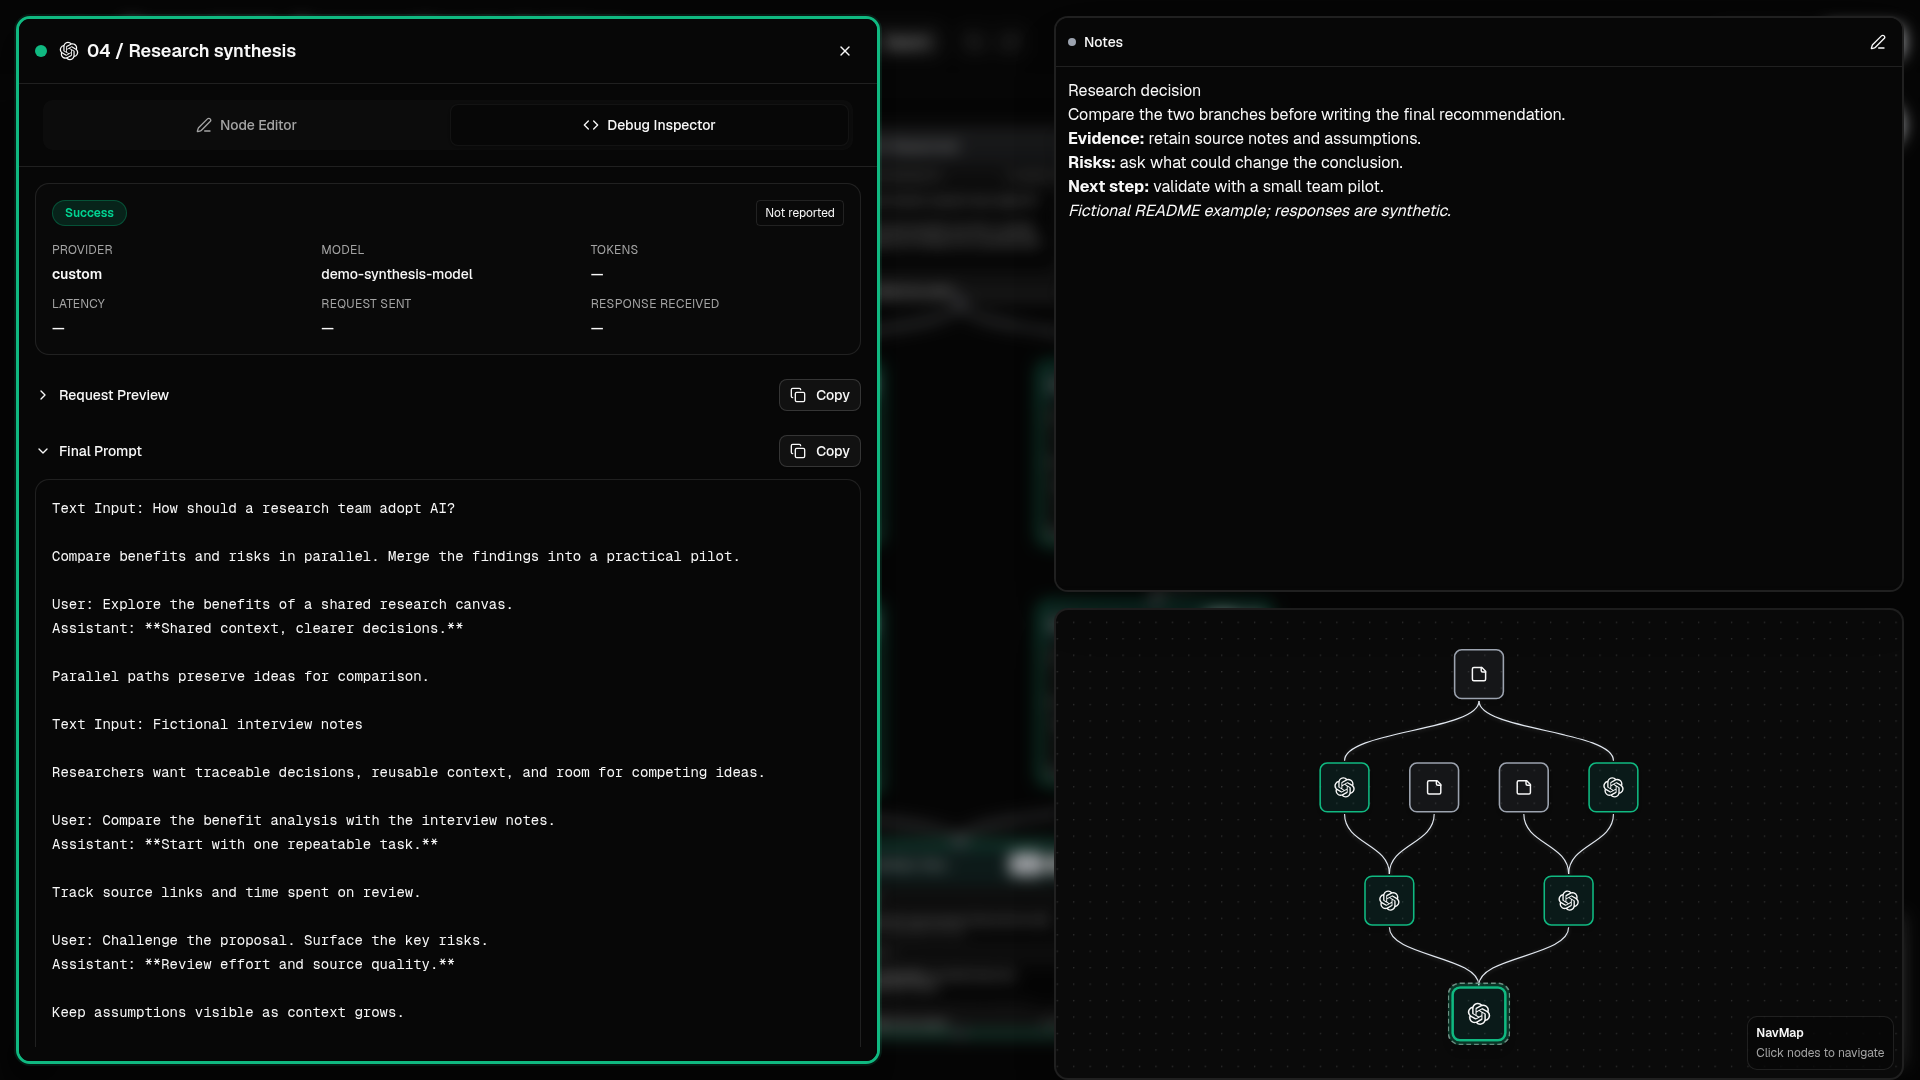
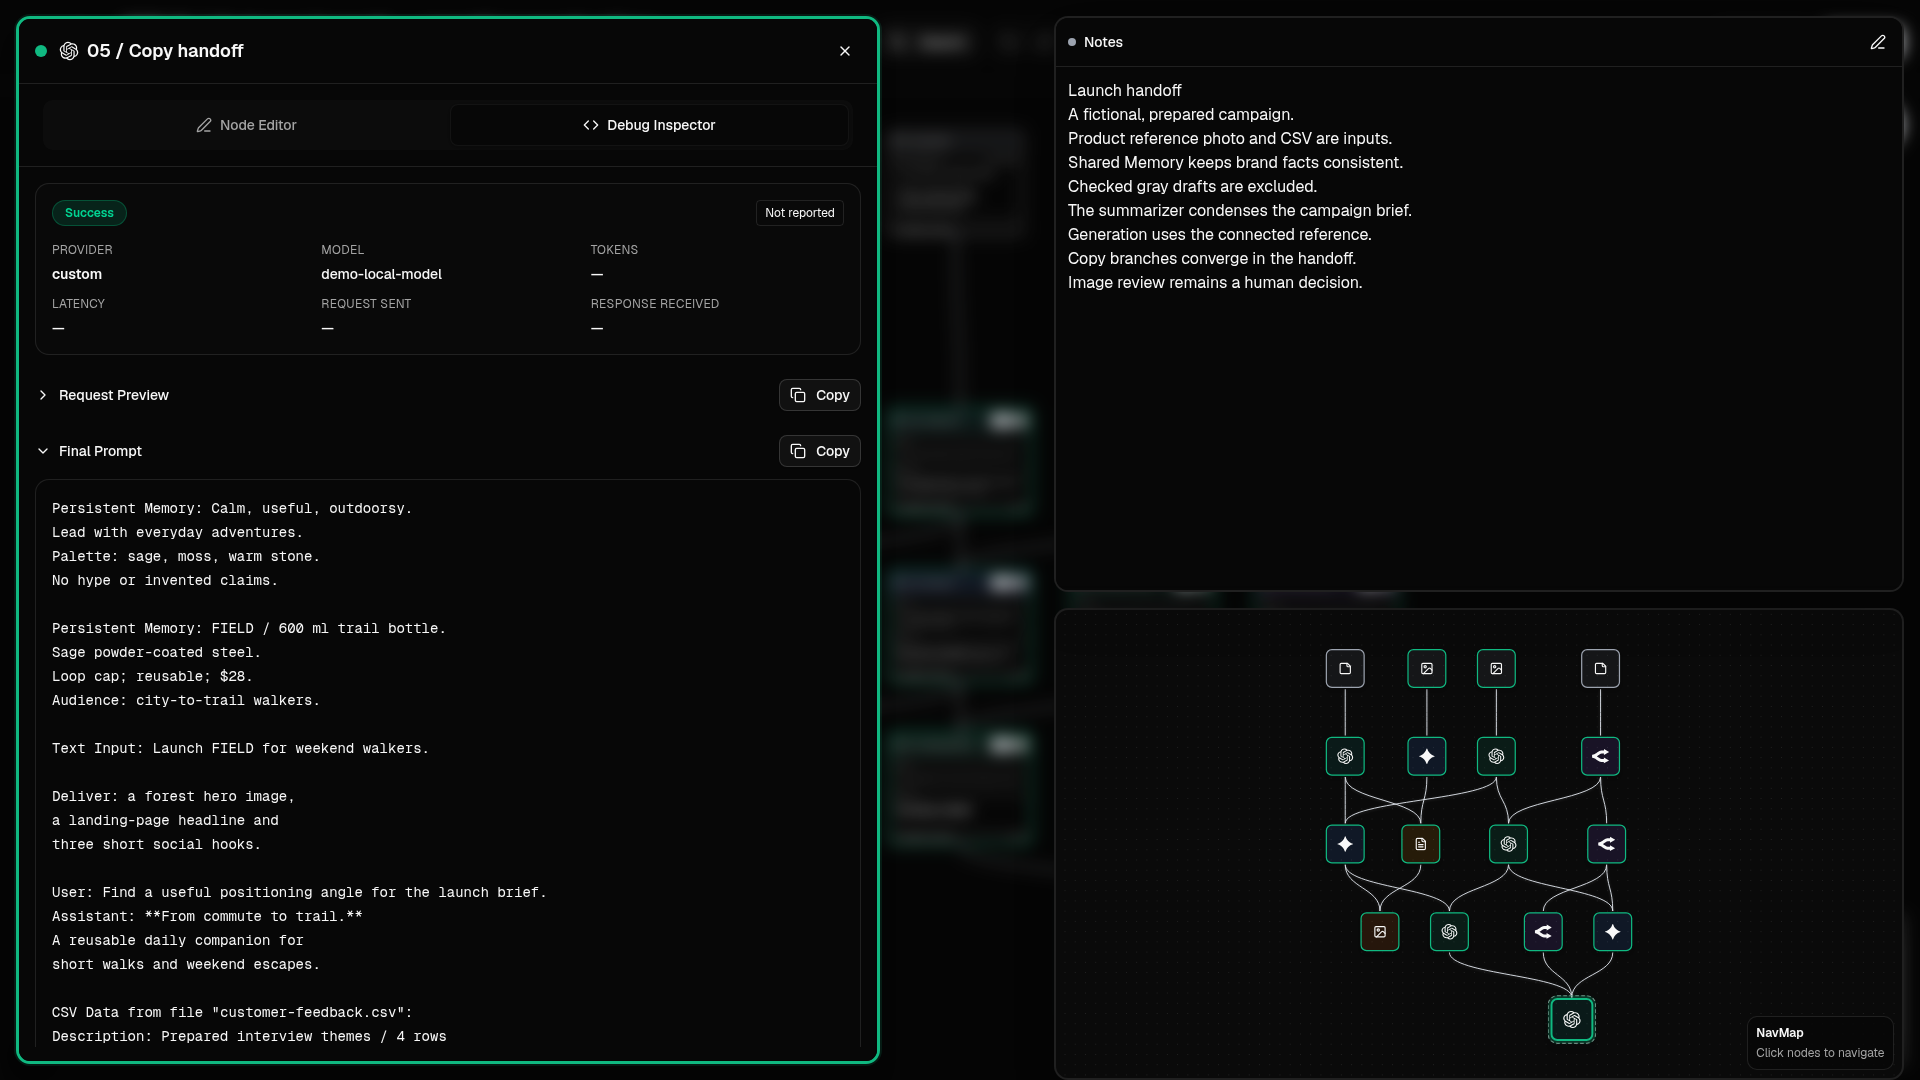
docs: showcase a complete multimodal production pipeline [skip ci]

diff --git a/docs/SCREENSHOTS.md b/docs/SCREENSHOTS.md
@@ -1,18 +1,31 @@
 # LLM Canvas screenshots
 
-These screenshots show the actual application with a synthetic demonstration account and graph. The prompts and saved example replies were prepared for documentation; they are not live model benchmarks. No personal canvases, real provider keys or private uploads are included.
+These screenshots show the actual application with a fresh demonstration account and a fictional project. Prompts, CSV feedback and saved replies were prepared for documentation. The two product photographs were created with the built-in image-generation tool and placed in the example graph; no application provider was called to stage the captures. These are examples, not live model benchmarks. No personal canvases, real provider keys or private uploads are included.
 
-## Branch and combine
+## A complete creative project
 
-![A dark nine-node canvas with two review branches, source notes and a connected conclusion](images/canvas-demo.png)
+![The FIELD campaign project: 21 nodes with a reference photo, generated hero, CSV feedback, shared memories, parallel reviews and excluded drafts](images/canvas-demo.png)
 
-Nine nodes form a top-to-bottom workflow: explore two perspectives, add source context, review each branch, then merge the findings. Each connection leaves the source at its bottom handle and enters the next node at its top handle. Arrows select context; use Run Selected to execute selected dependencies in order.
+**FIELD / Autumn launch** develops a campaign for a fictional trail bottle. Open the image at full size to inspect the 21 nodes and 21 connections.
+
+| Stage | What the graph shows |
+| --- | --- |
+| Source material | A product reference photo, launch brief and customer-feedback CSV. |
+| Shared Memory | Two persistent Memory nodes keep brand voice and verified product facts available across the canvas, without edges. |
+| Parallel analysis | Gemini, OpenAI, OpenRouter and a custom local endpoint explore the photo, audience, feedback and supported claims. |
+| Creative direction | A Summarizer composes the campaign brief; other branches develop art direction, message strategy and fact-checks. |
+| Production | An image-editing node preserves the bottle in a new forest scene. Parallel copy branches create landing-page and social text. |
+| Review and handoff | Copy branches converge in a handoff node; a Notes card keeps the human approval checklist outside model context. |
+
+Two checked, faded drafts demonstrate **Hidden from context**. The unsupported claim has a dashed connection to the claims-review node, but its text does not enter the request. The separate rejected-style draft is also excluded.
+
+Each connection uses the source's bottom handle and the target's top handle; downstream nodes sit below their sources. Layout checks verify no overlapping cards, crossings or clipped nodes. Arrows select context; use **Run Selected** to execute selected dependencies in order. A summary contributes its saved output alongside its connected raw ancestors; it does not silently replace them.
 
 ## Inspect context
 
 ![The node inspector showing connected demonstration context and a saved result](images/context-inspector.png)
 
-Review connected context and the saved result in the node inspector. Token estimates and provider-reported usage have different meanings; see [tokens and caching](TOKENS_AND_CACHING.md).
+The copy-handoff inspector shows both persistent memories and its assembled branch context, with the project notes and navigation map beside it. Image production and copy handoff remain parallel outputs for human approval. Prepared replies have no provider-reported billing or timing; the inspector displays **Not reported**. Token estimates and provider-reported usage have different meanings; see [tokens and caching](TOKENS_AND_CACHING.md).
 
 ## Connect your own endpoint
 

diff --git a/docs/RELEASE-VERIFICATION.md b/docs/RELEASE-VERIFICATION.md
@@ -45,7 +45,9 @@ Previews remain unsigned. Signing, reputation, downloaded-file quarantine and no
 
 The canonical server favicon is byte-identical. Browser/Apple/native formats derive from that artwork; all original ICO frames remain. Reproducible generation and seven regressions verify decoded pixels, transparency, formats and actual ASAR inclusion. App headers and native package/window configuration use the same mark; visual inspection of every OS launcher surface is not claimed.
 
-Actual Chromium on a private RC7 standalone verifies the cold Dark default with a light OS, saved Light/System after reload, visible branding and native control color scheme. The [gallery](SCREENSHOTS.md) contains three actual dark captures. The nine-node/eight-edge hero has exact bottom-source/top-target endpoints, descending geometry, no clipping/overlap/crossings and a 70px minimum vertical gap. Prepared synthetic replies are examples, not model benchmarks; no inference is submitted for those captures.
+Actual Chromium on a private RC7 standalone verifies the cold Dark default with a light OS, saved Light/System after reload, visible branding and native control color scheme. The [gallery at the RC7 tag](https://github.com/dannychirkov/llm-canvas/blob/v0.1.0-rc.7/docs/SCREENSHOTS.md) contains the original three dark captures. Its nine-node/eight-edge hero has exact bottom-source/top-target endpoints, descending geometry, no clipping/overlap/crossings and a 70px minimum vertical gap. Prepared synthetic replies are examples, not model benchmarks; no inference is submitted for those captures.
+
+The current [README gallery](SCREENSHOTS.md) expands the documentation example to a 21-node/21-edge creative project, captured from the same RC7 application. It includes product/reference imagery, CSV feedback, two global Memory nodes, two excluded drafts, summarization, image editing and parallel copy production. The revised hero and inspector pass fresh layout/context/privacy checks; sample photographs and replies are prepared fixtures. This documentation update leaves the accepted application binaries, version, tag and release assets above unchanged.
 
 Desktop release checks remain available since RC6. Download update opens the matching official installer after consent; installation stays manual. Background checks are disabled in deterministic native acceptance. See [update behavior](DESKTOP.md#update-notifications).
 

diff --git a/README.md b/README.md
@@ -8,9 +8,9 @@ A visual workspace for working with language models. Put a question on the canva
 
 [Download desktop previews](https://github.com/dannychirkov/llm-canvas/releases) · [Self-host with Docker](#run-with-docker) · [Screenshots](docs/SCREENSHOTS.md) · [Support the project](#support-and-sponsorship)
 
-![A dark demonstration canvas with nine nodes, parallel review branches and a shared conclusion](docs/images/canvas-demo.png)
+![A dark 21-node production canvas with product photography, image generation, shared memory, CSV feedback, model branches and excluded drafts](docs/images/canvas-demo.png)
 
-*A top-to-bottom workflow: one question, two perspectives, independent reviews and a connected result. This screenshot uses a synthetic example; see the [gallery](docs/SCREENSHOTS.md) for details.*
+*From product reference to campaign assets: 21 nodes combine photography, customer feedback, shared Memory, parallel model reviews, summarization, image editing and launch copy. Gray drafts are excluded from context. This is a fictional project with prepared example results; see the [gallery](docs/SCREENSHOTS.md) for details and the full-size image.*
 
 Windows, macOS and Linux desktop previews share the same core as the headless server. Bring your own provider credentials or connect a local model server. Licensed under [Apache 2.0](LICENSE).
 

diff --git a/CHANGELOG.md b/CHANGELOG.md
@@ -4,6 +4,10 @@
 
 Changes after the release-candidate baseline will be recorded here. A version bump does not publish a release or establish release readiness.
 
+## Unreleased
+
+- Expand the README hero to a 21-node creative production project with product photography, image editing, CSV feedback, shared Memory, excluded drafts, summarization and multiple model branches. Refresh the inspector capture and explain the prepared demonstration data; RC7 application binaries are unchanged.
+
 ## 0.1.0-rc.7 — 2026-10-26
 
 - Use the original server favicon as the shared browser, Apple, desktop window, installer and application logo; retain all original ICO frames and generate the platform formats from the same artwork.
